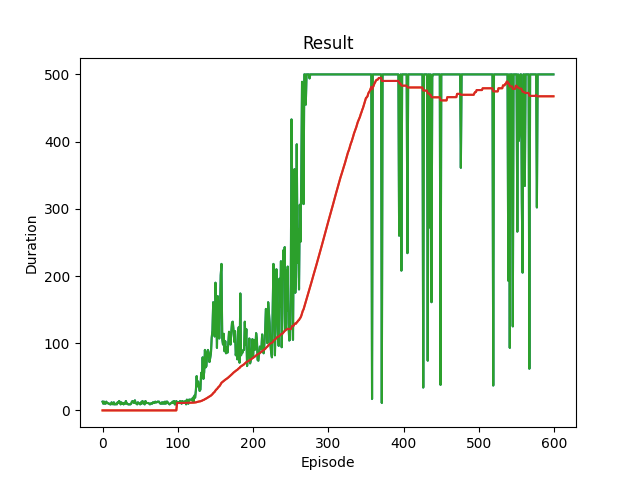
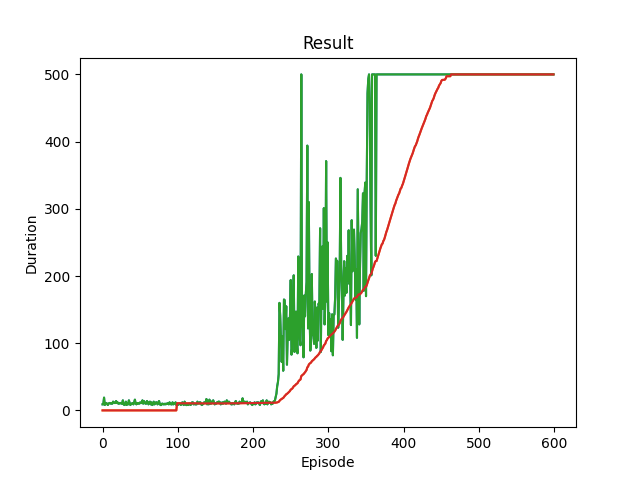
new run results

Changed region(s): [[0.1562, 0.125, 0.875, 0.8438]]

diff --git a/CartPoleDQN.py b/CartPoleDQN.py
@@ -57,7 +57,9 @@ state, info = environment.reset()
 
 games = 600
 
-a = CartPoleAgentDQNSingleNN.Agent(environment.action_space.n, len(state), device)
+a = CartPoleAgentDQN.Agent(environment.action_space.n, len(state), device)
+
+#a = CartPoleAgentDQNSingleNN.Agent(environment.action_space.n, len(state), device)
 
 for game in range(games):
     state, info = environment.reset()
@@ -93,6 +95,6 @@ print("complete")
 #a.PrintAction(old_state)
 plot_durations(show_result=True)
 plt.ioff()
-plt.savefig("./resultsSingleNN.png")    
+plt.savefig("./results.png")    
 plt.show()
    

diff --git a/CartPoleAgentDQN.Py b/CartPoleAgentDQN.Py
@@ -40,7 +40,7 @@ class DQN(neuralNetwork.Module):
 
 class Agent():
 
-    def __init__(self, num_actions, num_observations, device, batch_size = 256, gamma = 0.99, epsilon_start = 0.999, epsilon_end = 0.05, epsilon_decay = 2, tau = 0.005, lr = 1e-4):
+    def __init__(self, num_actions, num_observations, device, batch_size = 256, gamma = 0.99, epsilon_start = 0.999, epsilon_end = 0.05, epsilon_decay = 1, tau = 0.005, lr = 1e-4):
         self.Num_Actions = num_actions
         self.Num_Observations = num_observations
         self.Device = device
